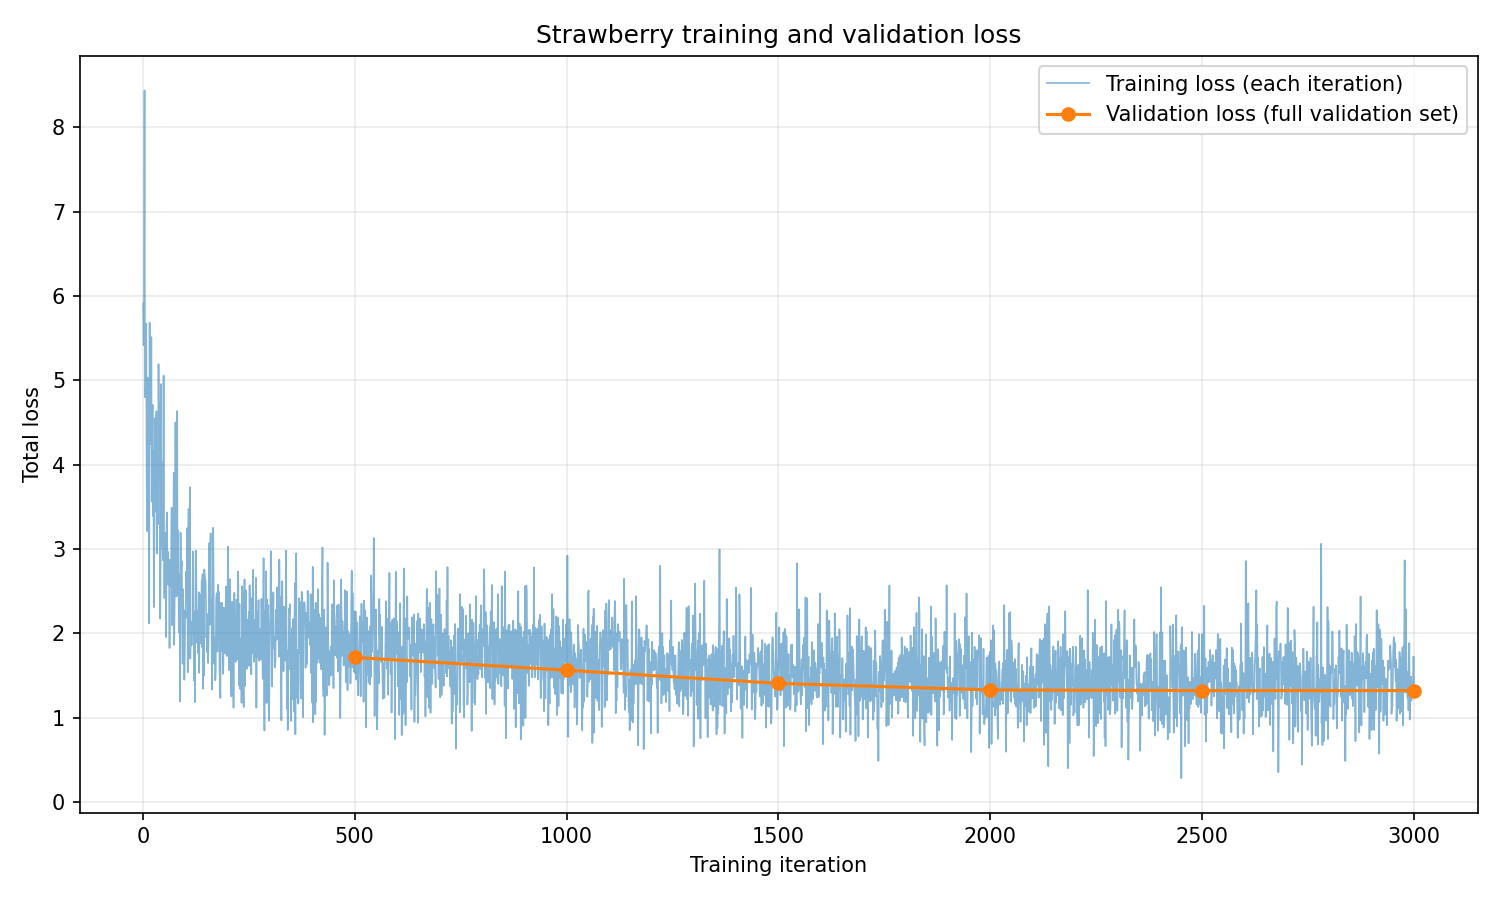
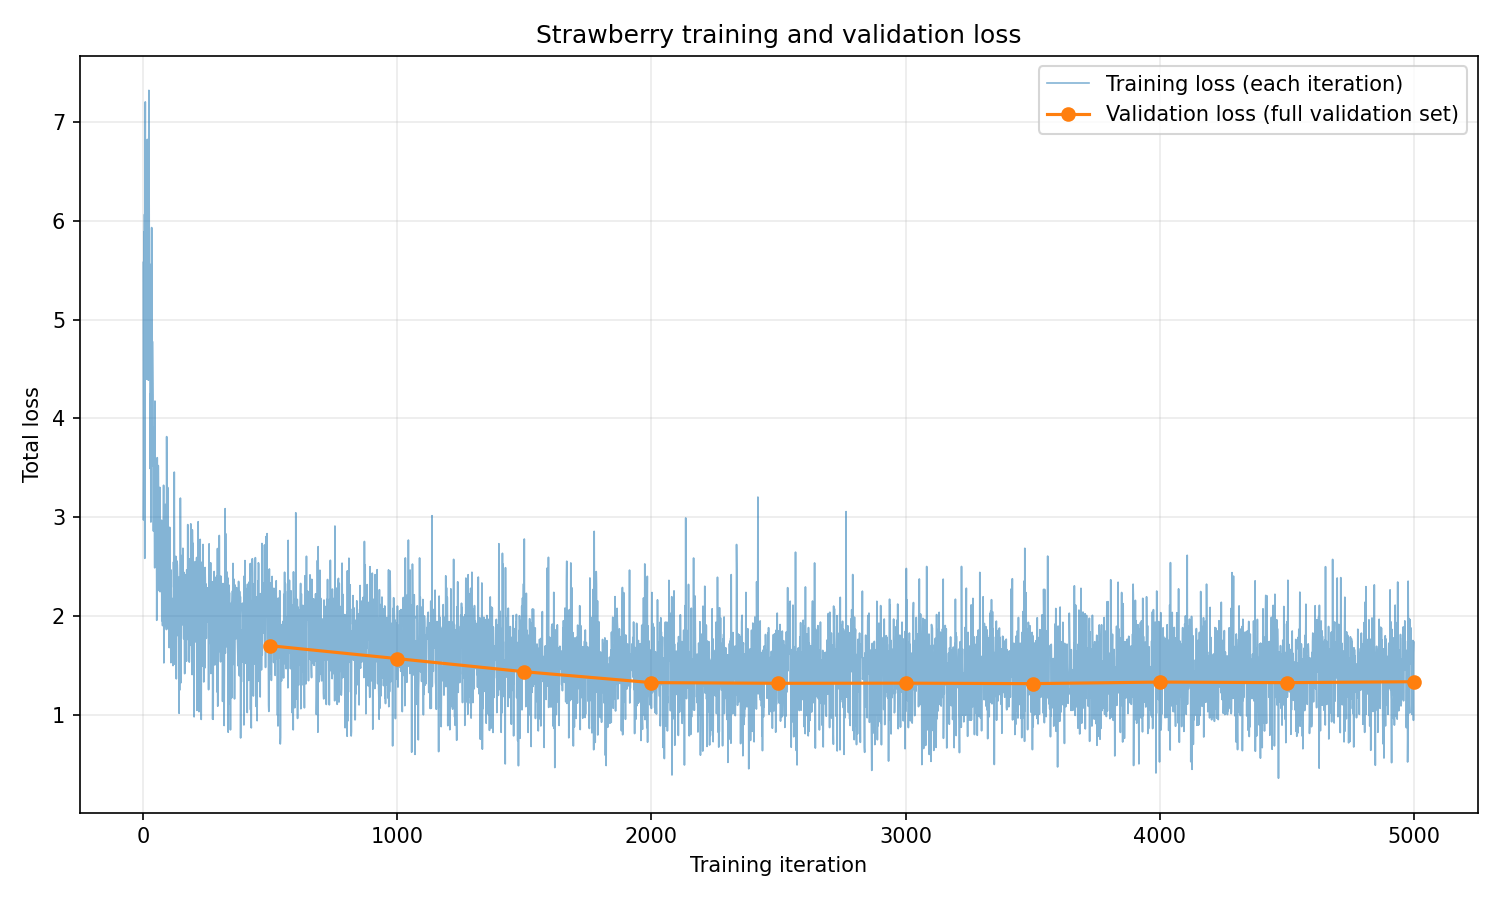
Synchronised depth and rgb - they werent sync'd before so large inference times cause problems

diff --git a/scripts/fruit_detection.py b/scripts/fruit_detection.py
@@ -1,6 +1,7 @@
 #!/usr/bin/env python3
 
 import rclpy
+from message_filters import Subscriber, ApproximateTimeSynchronizer
 from rclpy.node import Node
 from std_msgs.msg import String, Header
 from sensor_msgs.msg import Image, CameraInfo
@@ -44,6 +45,8 @@ class FruitDetectionNode(Node):
                 ('min_depth', 0.1),
                 ('max_depth', 15.0),
                 ('constant_depth_value', 1.0),
+                ('sync_queue_size', 10),
+                ('sync_slop', 0.03),
                 ('fruit_type', "strawberry"),
                 ('pose3d_frame', ''),
                 ('pose3d_tf', False),
@@ -114,18 +117,27 @@ class FruitDetectionNode(Node):
             self.set_default_camera_model() # in case camera_info calibration message not available 
             
             # Declare subscribers
-            self.image_sub = self.create_subscription(
-                Image,
-                'camera/image_raw',
-                self.image_callback,
-                qos_profile=qos_profile_sensor_data
+            self.image_sub = Subscriber(
+                self, Image, 'camera/image_raw',
+                qos_profile=qos_profile_sensor_data,
             )
-
-            self.depth_sub = self.create_subscription(
-                Image,
-                'camera/depth',
-                self.depth_callback,
-                qos_profile=qos_profile_sensor_data
+            self.depth_sub = Subscriber(
+                self, Image, 'camera/depth',
+                qos_profile=qos_profile_sensor_data,
+            )
+            sync_queue_size = self.get_parameter('sync_queue_size').value
+            sync_slop = self.get_parameter('sync_slop').value
+            if sync_queue_size < 1 or sync_slop <= 0:
+                raise ValueError('sync_queue_size must be positive and sync_slop must be > 0 seconds')
+            self.rgbd_sync = ApproximateTimeSynchronizer(
+                [self.image_sub, self.depth_sub],
+                queue_size=sync_queue_size,
+                slop=sync_slop,
+            )
+            self.rgbd_sync.registerCallback(self.image_callback)
+            self.get_logger().info(
+                f'RGB/depth timestamp synchronization enabled: tolerance={sync_slop}s, '
+                f'queue={sync_queue_size}'
             )
 
             self.camera_info_sub = self.create_subscription(
@@ -213,6 +225,9 @@ class FruitDetectionNode(Node):
 
         # Loop over the detected fruits and create a marker for each one
         for i, fruit_msg in enumerate(fruits_msg.fruits):
+            position = fruit_msg.pose3d.pose.position
+            if not np.isfinite([position.x, position.y, position.z]).all():
+                continue
             marker = self.create_fruit_marker(fruit_msg, i)  # Create a marker with unique ID
             marker_array.markers.append(marker)
 
@@ -258,6 +273,8 @@ class FruitDetectionNode(Node):
         pose3d = PoseStamped()
 
         height, width = depth_image.shape
+        if not np.isfinite([pose2d.x, pose2d.y]).all():
+            return None
         x = int(pose2d.x)
         y = int(pose2d.y)
 
@@ -266,7 +283,7 @@ class FruitDetectionNode(Node):
 
         # A local median rejects isolated bad pixels without sampling distant
         # parts of the image. Depth is in metres at this point.
-        radius = 2
+        radius = 5
         patch = depth_image[max(0, y-radius):min(height, y+radius+1),
                             max(0, x-radius):min(width, x+radius+1)]
         valid = patch[np.isfinite(patch) & (patch > 0)
@@ -364,21 +381,17 @@ class FruitDetectionNode(Node):
             return point_optical
         
 
-    def depth_callback(self, msg):
-        try:
-            # Convert ROS2 depth Image message to OpenCV depth image
-            if msg.encoding not in ('16UC1', '32FC1'):
-                raise ValueError(f'Unsupported depth encoding: {msg.encoding}')
-            depth = self.bridge.imgmsg_to_cv2(msg, desired_encoding='passthrough')
-            depth = np.asarray(depth, dtype=np.float32).copy()
-            if msg.encoding == '16UC1':
-                depth *= 0.001  # Unsigned 16-bit depth is in millimetres.
-            depth[~np.isfinite(depth) | (depth <= 0)] = np.nan
-            self.cv_depth_image = depth
-            self.depth_msg = msg 
-        except Exception as e:
-            self.get_logger().error(f"Error processing depth image: {e}")
-    
+    def convert_depth_image(self, msg):
+        """Convert the depth frame paired with RGB to metres."""
+        if msg.encoding not in ('16UC1', '32FC1'):
+            raise ValueError(f'Unsupported depth encoding: {msg.encoding}')
+        depth = self.bridge.imgmsg_to_cv2(msg, desired_encoding='passthrough')
+        depth = np.asarray(depth, dtype=np.float32).copy()
+        if msg.encoding == '16UC1':
+            depth *= 0.001  # Unsigned 16-bit depth is in millimetres.
+        depth[~np.isfinite(depth) | (depth <= 0)] = np.nan
+        return depth
+
     def create_confidence_dict(self, confidence_list):
         # Create a dictionary with annotation_id as the key and confidence as the value
         return {entry['annotation_id']: entry['confidence'] for entry in confidence_list}
@@ -415,7 +428,7 @@ class FruitDetectionNode(Node):
         #print(f"tf_matrix: {tf_matrix}")
         return tf_matrix
 
-    def image_callback(self, msg):
+    def image_callback(self, msg, depth_msg):
         try:
             self.get_logger().info("Image captured.")
 
@@ -429,23 +442,19 @@ class FruitDetectionNode(Node):
             image_id = int(f'{msg.header.stamp.sec}{str(msg.header.stamp.nanosec).zfill(9)}')
             self.get_logger().info(f"Image ID is: {image_id}")
 
-            rgb_msg = msg                 
-            if hasattr(self, 'depth_msg') and self.depth_msg is not None:
-                depth_msg = self.depth_msg
-            else:
-                depth_msg = Image()
-
-            if hasattr(self, 'cv_depth_image') and self.cv_depth_image is not None:
-                # Ensure that the depth image is the same size as the RGB image
-                if self.cv_image.shape[:2] != self.cv_depth_image.shape[:2]:
-                    self.get_logger().warn("Resizing depth image to match RGB image dimensions.")
-                    depth_image = cv2.resize(self.cv_depth_image, (self.cv_image.shape[1], self.cv_image.shape[0]), interpolation=cv2.INTER_NEAREST)
-                else:
-                    depth_image = self.cv_depth_image
-            else:
-                # If no depth image is available, use the constant depth value
-                self.get_logger().warn(f"No depth image available. Using constant depth value: {self.constant_depth_value}")
-                depth_image = np.full(self.cv_image.shape[:2], self.constant_depth_value, dtype=np.float32)
+            rgb_msg = msg
+            # Use only the depth message paired by capture timestamp.
+            try:
+                depth_image = self.convert_depth_image(depth_msg)
+            except (CvBridgeError, ValueError) as exc:
+                self.get_logger().error(f'Error processing synchronized depth image: {exc}')
+                return
+            if self.cv_image.shape[:2] != depth_image.shape[:2]:
+                self.get_logger().warn("Resizing depth image to match RGB image dimensions.")
+                depth_image = cv2.resize(
+                    depth_image, (self.cv_image.shape[1], self.cv_image.shape[0]),
+                    interpolation=cv2.INTER_NEAREST,
+                )
 
             self.get_logger().info("Depth ready")
             # Combine RGB and depth into a single 4-channel image (3 for RGB + 1 for depth)
@@ -540,8 +549,15 @@ class FruitDetectionNode(Node):
                 fruit_msg.mask3d = segmentation # AY: To be developed
                 pose3d = self.compute_pose3d(fruit_msg.pose2d, depth_image)
                 if pose3d is None:
-                    self.get_logger().warn(f'Skipping fruit {fruit_id}: no reliable depth near its centre')
-                    continue
+                    # Preserve the RGB detection without inventing a 3D position.
+                    pose3d = PoseStamped()
+                    pose3d.header.frame_id = self.pose3d_frame
+                    pose3d.pose.position.x = float('nan')
+                    pose3d.pose.position.y = float('nan')
+                    pose3d.pose.position.z = float('nan')
+                    self.get_logger().debug(
+                        f'Fruit {fruit_id}: keeping 2D detection; 3D depth unavailable'
+                    )
                 fruit_msg.pose3d = pose3d
                 fruit_msg.pose3d.header.stamp = rgb_msg.header.stamp
                 fruit_msg.confidence = float(confidence_dict.get(fruit_id, '-1.0'))
@@ -572,6 +588,8 @@ class FruitDetectionNode(Node):
         scale_factor = min(width, height) / 1500  # Scale the circle size based on image dimensions
         
         for fruit in fruits_info.fruits:
+            if not np.isfinite([fruit.pose2d.x, fruit.pose2d.y]).all():
+                continue
             x = int(fruit.pose2d.x)
             y = int(fruit.pose2d.y)
             theta = np.deg2rad(fruit.pose2d.theta)

diff --git a/scripts/train_strawberry.py b/scripts/train_strawberry.py
@@ -143,7 +143,7 @@ def build_training_hooks(trainer):
     return [
         LossGraphHook(cfg, trainer.model, loader),
         BestCheckpointer(cfg.TEST.EVAL_PERIOD, trainer.checkpointer,
-                         "segm/AP", mode="max", file_prefix="model_best"),
+                         "segm/AP-fruit_ripe", mode="max", file_prefix="model_best"),
     ]
 
 
@@ -202,7 +202,7 @@ def main():
         "training_output_dir": str(output),
     })
     config["training"].update({
-        "number_of_classes": 2, "epochs": 3000, "learning_rate": 0.00025,
+        "number_of_classes": 2, "epochs": 10000, "learning_rate": 0.00025,
         "num_workers": 2, "batch_size": 2, "steps": [2000, 2600],
         "warmup_iters": 100,
     })
@@ -227,7 +227,7 @@ def main():
     print("Detector configuration (non_ros_params.yaml):")
     best_model = output / "model_best.pth"
     if not best_model.is_file():
-        raise RuntimeError("No best model was saved; check validation segm/AP metrics")
+        raise RuntimeError("No best model was saved; check validation segm/AP-fruit_ripe metrics")
     print(f"  model_file: '{best_model}'")
     print(f"  test_metadata_catalog_file: '{output / 'test_metadata_catalog.pkl'}'")
     print(f"  config_file: '{ARCHITECTURE}'")
